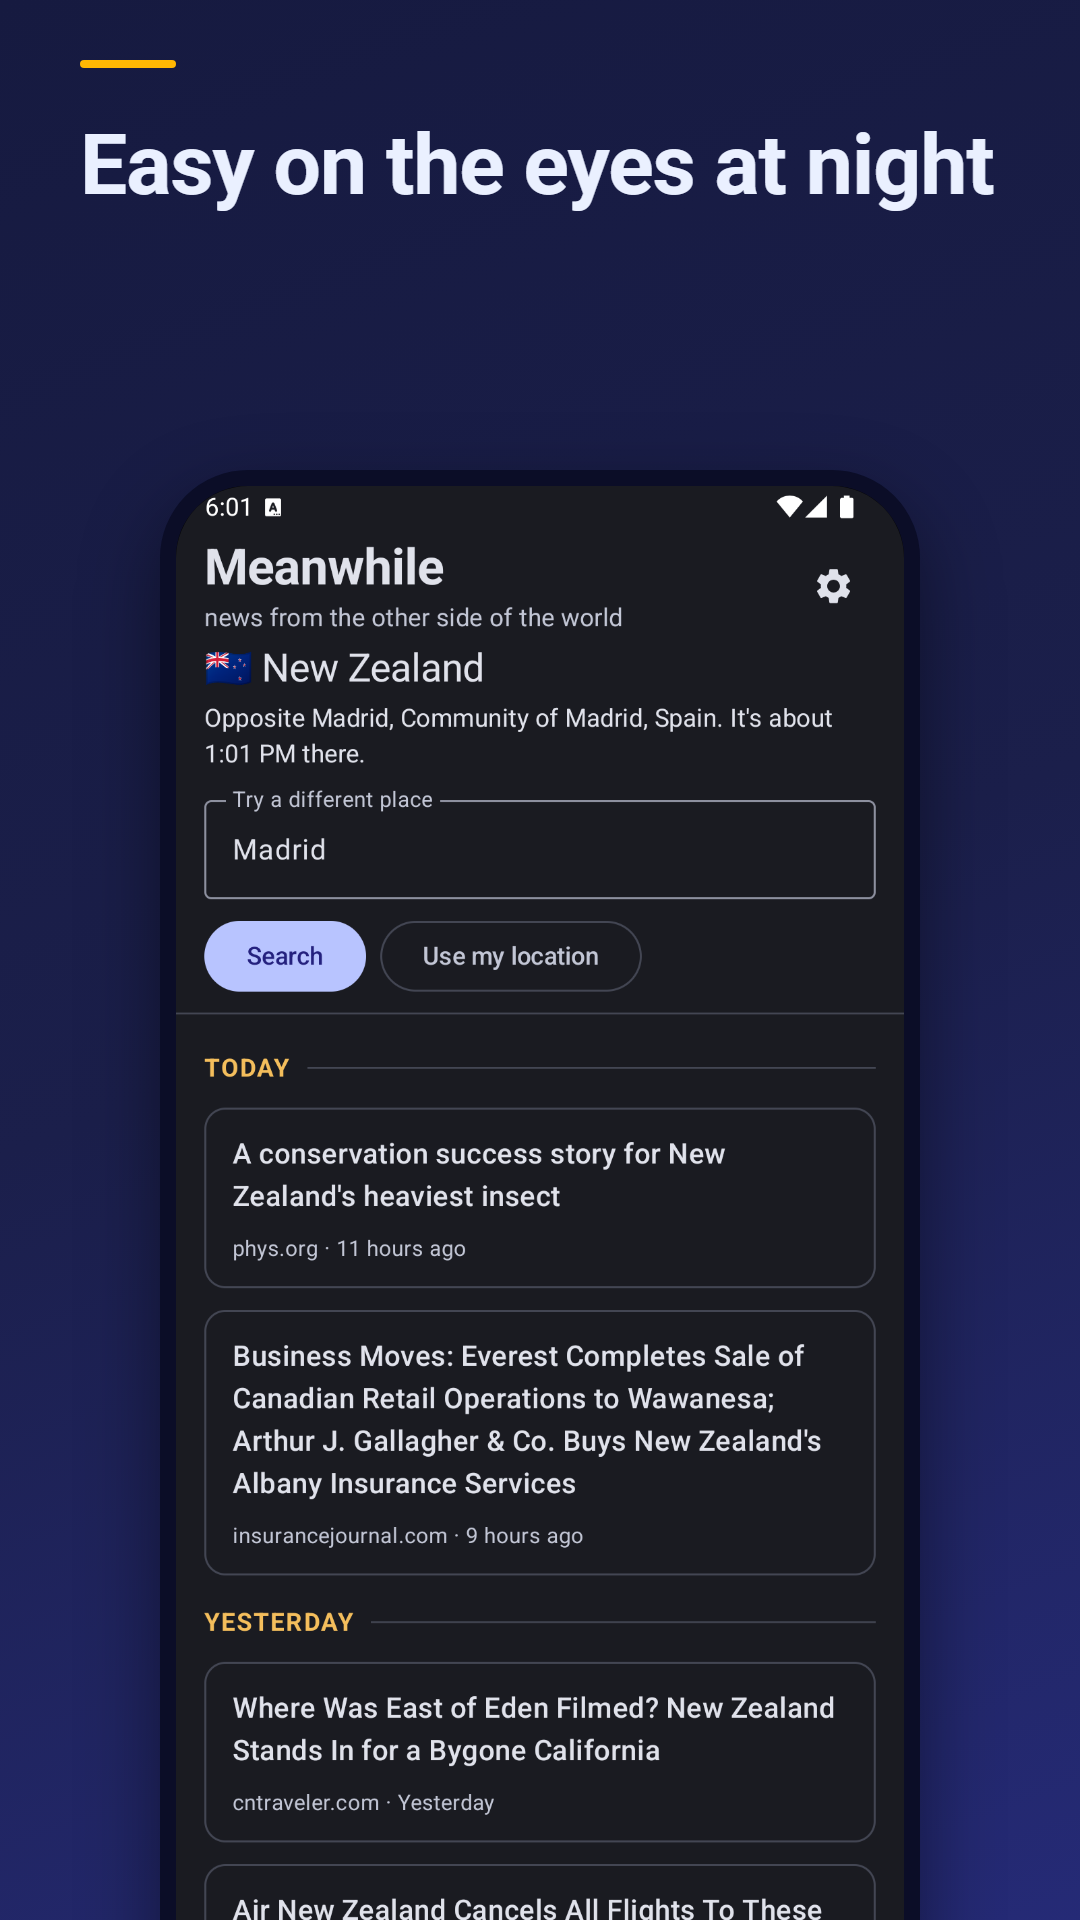
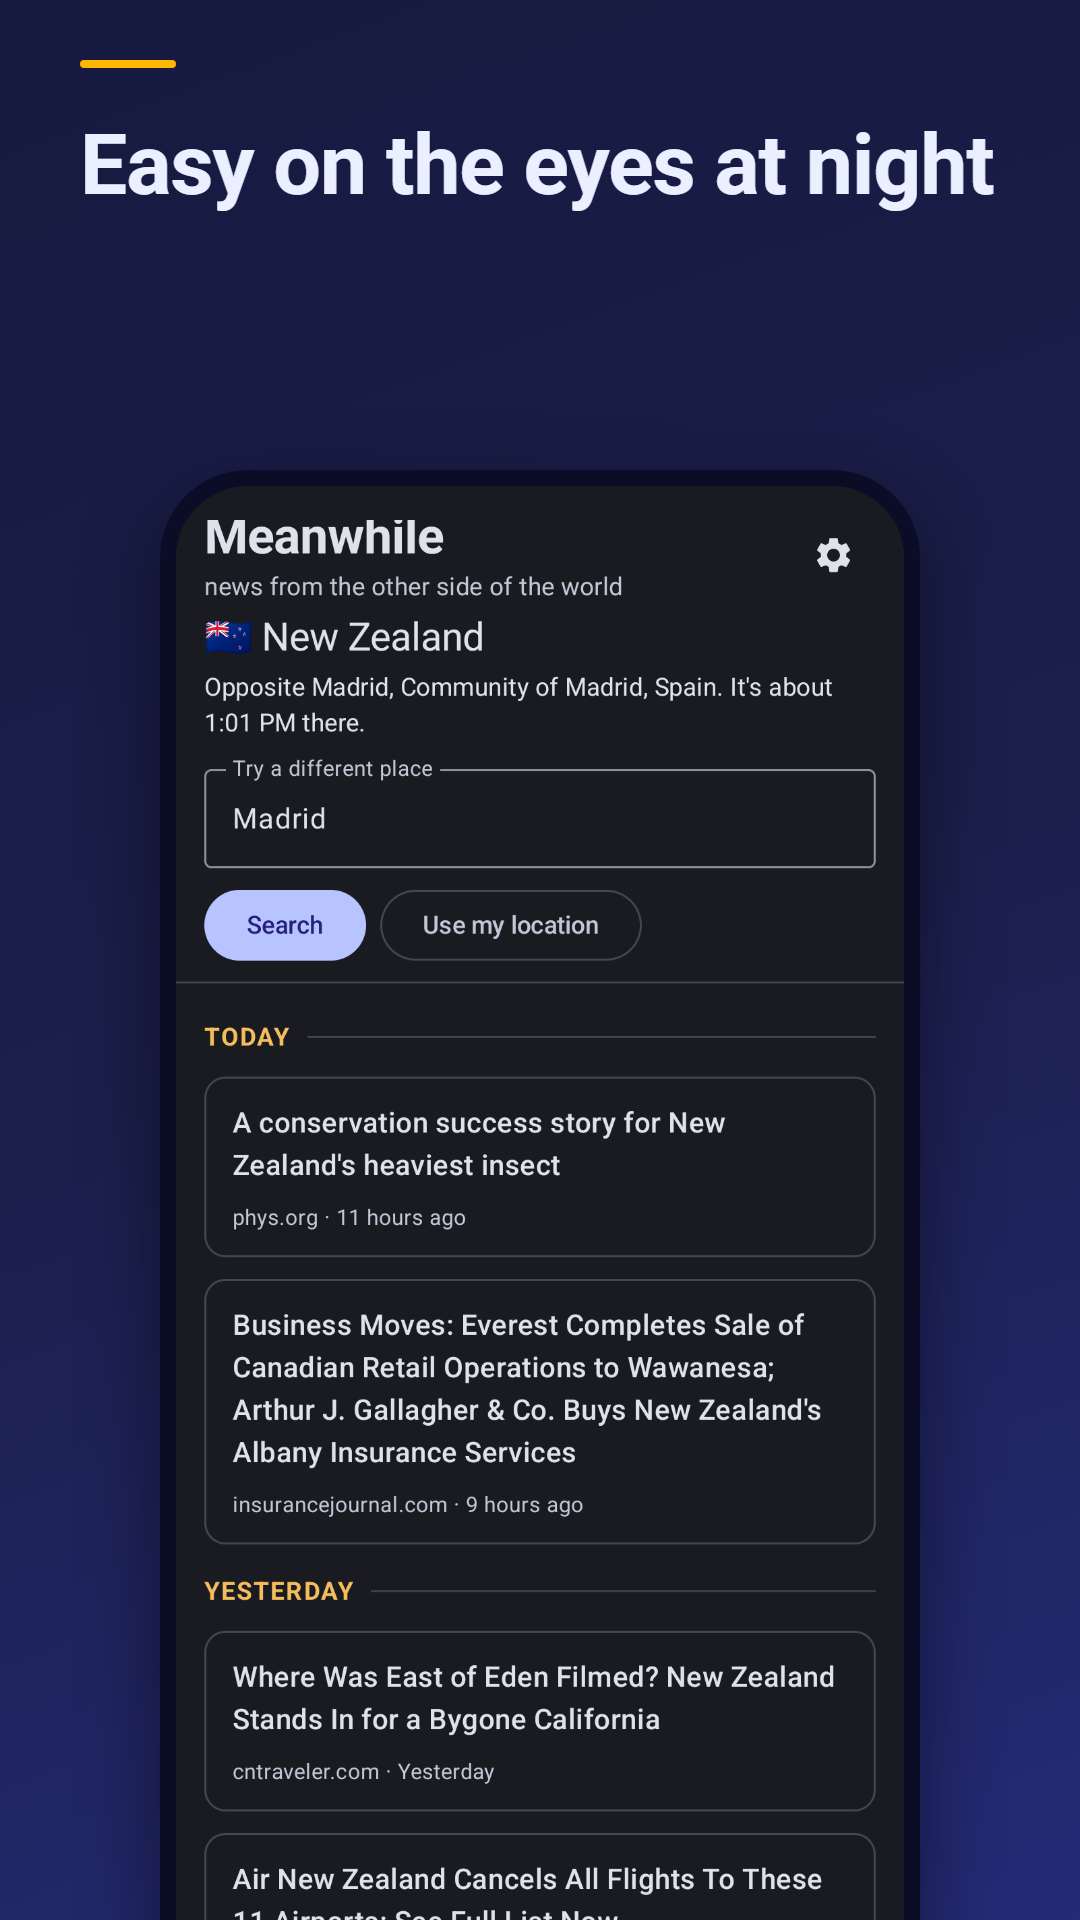
Play listing: crop the status bar out of the framed screenshots
The phone frame's rounded corners clipped the clock. The status bar is cropped
off and the screen padded in the app's own colour instead.

Changed region(s): [[0.1833, 0.25, 0.7944, 1.0], [0.7028, 0.25, 0.7944, 0.3125], [0.55, 0.4375, 0.5806, 0.4688]]

diff --git a/docs/play-store/screenshots/shot-1.html b/docs/play-store/screenshots/shot-1.html
@@ -8,8 +8,9 @@
   h1 { position: absolute; left: 80px; right: 80px; top: 120px; margin: 0; font-size: 84px; line-height: 1.08; font-weight: 700; letter-spacing: -1px; }
   .bar { position: absolute; left: 80px; top: 60px; width: 96px; height: 8px; border-radius: 4px; background: #ffb703; }
   .phone { position: absolute; left: 160px; top: 470px; width: 760px; box-sizing: border-box; border: 16px solid #0b0d27;
-            border-radius: 88px; overflow: hidden; background: #000; box-shadow: 0 30px 80px rgba(0,0,0,.45); }
-  .phone img { display: block; width: 100%; }
+            border-radius: 88px; overflow: hidden; background: #fbfcff; padding-top: 34px; box-shadow: 0 30px 80px rgba(0,0,0,.45); }
+  .phone .clip { overflow: hidden; }
+  .phone img { display: block; width: 100%; margin-top: -65px; }
 </style></head>
 <body><div class="bar"></div><h1>Headlines from the other side of the world</h1>
-<div class="phone"><img src="../../screenshots/headlines.png" alt=""></div></body></html>
+<div class="phone"><div class="clip"><img src="../../screenshots/headlines.png" alt=""></div></div></body></html>

diff --git a/docs/play-store/screenshots/shot-2.html b/docs/play-store/screenshots/shot-2.html
@@ -8,8 +8,9 @@
   h1 { position: absolute; left: 80px; right: 80px; top: 120px; margin: 0; font-size: 84px; line-height: 1.08; font-weight: 700; letter-spacing: -1px; }
   .bar { position: absolute; left: 80px; top: 60px; width: 96px; height: 8px; border-radius: 4px; background: #ffb703; }
   .phone { position: absolute; left: 160px; top: 470px; width: 760px; box-sizing: border-box; border: 16px solid #0b0d27;
-            border-radius: 88px; overflow: hidden; background: #000; box-shadow: 0 30px 80px rgba(0,0,0,.45); }
-  .phone img { display: block; width: 100%; }
+            border-radius: 88px; overflow: hidden; background: #fbfcff; padding-top: 34px; box-shadow: 0 30px 80px rgba(0,0,0,.45); }
+  .phone .clip { overflow: hidden; }
+  .phone img { display: block; width: 100%; margin-top: -65px; }
 </style></head>
 <body><div class="bar"></div><h1>Most of the planet is water, so start at sea</h1>
-<div class="phone"><img src="../../screenshots/ocean.png" alt=""></div></body></html>
+<div class="phone"><div class="clip"><img src="../../screenshots/ocean.png" alt=""></div></div></body></html>

diff --git a/docs/play-store/screenshots/shot-3.html b/docs/play-store/screenshots/shot-3.html
@@ -8,8 +8,9 @@
   h1 { position: absolute; left: 80px; right: 80px; top: 120px; margin: 0; font-size: 84px; line-height: 1.08; font-weight: 700; letter-spacing: -1px; }
   .bar { position: absolute; left: 80px; top: 60px; width: 96px; height: 8px; border-radius: 4px; background: #ffb703; }
   .phone { position: absolute; left: 160px; top: 470px; width: 760px; box-sizing: border-box; border: 16px solid #0b0d27;
-            border-radius: 88px; overflow: hidden; background: #000; box-shadow: 0 30px 80px rgba(0,0,0,.45); }
-  .phone img { display: block; width: 100%; }
+            border-radius: 88px; overflow: hidden; background: #1a1b21; padding-top: 34px; box-shadow: 0 30px 80px rgba(0,0,0,.45); }
+  .phone .clip { overflow: hidden; }
+  .phone img { display: block; width: 100%; margin-top: -65px; }
 </style></head>
 <body><div class="bar"></div><h1>Easy on the eyes at night</h1>
-<div class="phone"><img src="../../screenshots/headlines-dark.png" alt=""></div></body></html>
+<div class="phone"><div class="clip"><img src="../../screenshots/headlines-dark.png" alt=""></div></div></body></html>

diff --git a/docs/play-store/screenshots/shot-4.html b/docs/play-store/screenshots/shot-4.html
@@ -8,8 +8,9 @@
   h1 { position: absolute; left: 80px; right: 80px; top: 120px; margin: 0; font-size: 84px; line-height: 1.08; font-weight: 700; letter-spacing: -1px; }
   .bar { position: absolute; left: 80px; top: 60px; width: 96px; height: 8px; border-radius: 4px; background: #ffb703; }
   .phone { position: absolute; left: 160px; top: 470px; width: 760px; box-sizing: border-box; border: 16px solid #0b0d27;
-            border-radius: 88px; overflow: hidden; background: #000; box-shadow: 0 30px 80px rgba(0,0,0,.45); }
-  .phone img { display: block; width: 100%; }
+            border-radius: 88px; overflow: hidden; background: #fbfcff; padding-top: 34px; box-shadow: 0 30px 80px rgba(0,0,0,.45); }
+  .phone .clip { overflow: hidden; }
+  .phone img { display: block; width: 100%; margin-top: -65px; }
 </style></head>
 <body><div class="bar"></div><h1>Private by default</h1>
-<div class="phone"><img src="../../screenshots/about-privacy.png" alt=""></div></body></html>
+<div class="phone"><div class="clip"><img src="../../screenshots/about-privacy.png" alt=""></div></div></body></html>

diff --git a/docs/play-store/screenshots/make.py b/docs/play-store/screenshots/make.py
@@ -2,12 +2,18 @@
 Run from this folder, then render each shot-N.html at 1080x1920 (see the README note in the repo history)."""
 import html
 
+# (screenshot, caption, name, the app's own background colour, used for the strip above the cropped status bar)
+LIGHT, DARK = "#fbfcff", "#1a1b21"
 SHOTS = [
-    ("headlines.png", "Headlines from the other side of the world", "headlines"),
-    ("ocean.png", "Most of the planet is water, so start at sea", "ocean"),
-    ("headlines-dark.png", "Easy on the eyes at night", "dark"),
-    ("about-privacy.png", "Private by default", "private"),
+    ("headlines.png", "Headlines from the other side of the world", "headlines", LIGHT),
+    ("ocean.png", "Most of the planet is water, so start at sea", "ocean", LIGHT),
+    ("headlines-dark.png", "Easy on the eyes at night", "dark", DARK),
+    ("about-privacy.png", "Private by default", "private", LIGHT),
 ]
+# The raw captures include the emulator's status bar (clock, battery), which the frame's rounded corners would clip.
+# Crop it off (CROP_TOP of the 2400 px height) and give the screen a little padding in the app's own colour instead.
+CROP_TOP = 96
+PAD_TOP = 34
 
 TEMPLATE = """<!DOCTYPE html>
 <html lang="en"><head><meta charset="utf-8">
@@ -19,14 +25,17 @@ TEMPLATE = """<!DOCTYPE html>
   h1 {{ position: absolute; left: 80px; right: 80px; top: 120px; margin: 0; font-size: 84px; line-height: 1.08; font-weight: 700; letter-spacing: -1px; }}
   .bar {{ position: absolute; left: 80px; top: 60px; width: 96px; height: 8px; border-radius: 4px; background: #ffb703; }}
   .phone {{ position: absolute; left: 160px; top: 470px; width: 760px; box-sizing: border-box; border: 16px solid #0b0d27;
-            border-radius: 88px; overflow: hidden; background: #000; box-shadow: 0 30px 80px rgba(0,0,0,.45); }}
-  .phone img {{ display: block; width: 100%; }}
+            border-radius: 88px; overflow: hidden; background: {bg}; padding-top: {pad}px; box-shadow: 0 30px 80px rgba(0,0,0,.45); }}
+  .phone .clip {{ overflow: hidden; }}
+  .phone img {{ display: block; width: 100%; margin-top: -{crop}px; }}
 </style></head>
 <body><div class="bar"></div><h1>{caption}</h1>
-<div class="phone"><img src="../../screenshots/{image}" alt=""></div></body></html>
+<div class="phone"><div class="clip"><img src="../../screenshots/{image}" alt=""></div></div></body></html>
 """
 
-for n, (image, caption, _name) in enumerate(SHOTS, 1):
+for n, (image, caption, _name, bg) in enumerate(SHOTS, 1):
+    # The image is shown 728 px wide (760 less the 16 px border each side), so 1080 raw px = 728 px.
+    crop = round(CROP_TOP * 728 / 1080)
     with open(f"shot-{n}.html", "w", encoding="utf-8", newline="\n") as f:
-        f.write(TEMPLATE.format(caption=html.escape(caption), image=image))
+        f.write(TEMPLATE.format(caption=html.escape(caption), image=image, bg=bg, pad=PAD_TOP, crop=crop))
 print(len(SHOTS), "pages")
